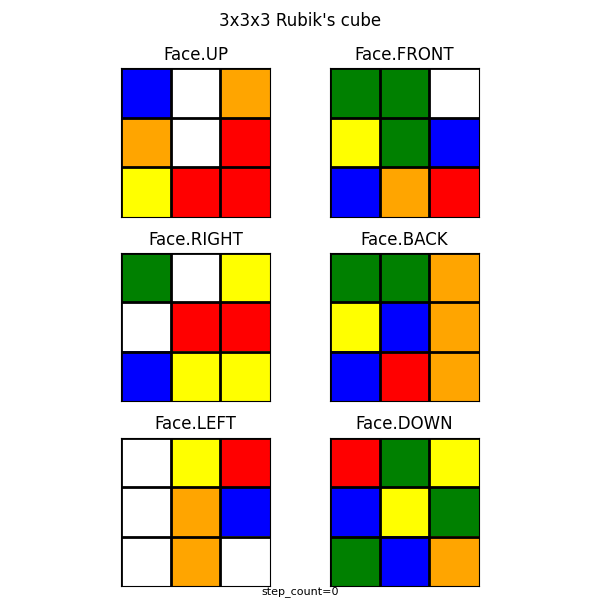
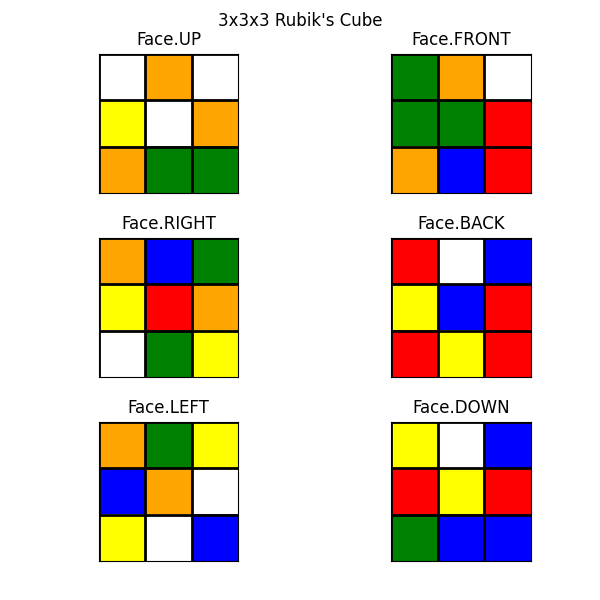
feat(animation): minesweeper and rubikscube (#342)

diff --git a/jumanji/environments/logic/rubiks_cube/env.py b/jumanji/environments/logic/rubiks_cube/env.py
@@ -12,11 +12,12 @@
 # See the License for the specific language governing permissions and
 # limitations under the License.
 
-from typing import List, Optional, Tuple
+from typing import List, Optional, Sequence, Tuple
 
 import chex
 import jax
 import matplotlib
+import matplotlib.animation
 import matplotlib.pyplot as plt
 from chex import PRNGKey
 from jax import lax
@@ -117,7 +118,7 @@ class RubiksCube(Environment[State]):
         self.num_actions = len(Face) * (cube_size // 2) * len(CubeMovementAmount)
         self.all_moves = generate_all_moves(cube_size=cube_size)
 
-        self.figure_name = f"{cube_size}x{cube_size}x{cube_size} Rubik's cube"
+        self.figure_name = f"{cube_size}x{cube_size}x{cube_size} Rubik's Cube"
         self.figure_size = (6.0, 6.0)
 
     @classmethod
@@ -312,7 +313,7 @@ class RubiksCube(Environment[State]):
 
         """
         self._clear_display()
-        fig, ax = self._get_fig_ax(caption=f"step_count={state.step_count}")
+        fig, ax = self._get_fig_ax()
         self._draw(ax, state)
         self._update_display(fig)
 
@@ -324,7 +325,7 @@ class RubiksCube(Environment[State]):
         """
         plt.close(self.figure_name)
 
-    def _get_fig_ax(self, caption: str) -> Tuple[plt.Figure, List[plt.Axes]]:
+    def _get_fig_ax(self) -> Tuple[plt.Figure, List[plt.Axes]]:
         exists = plt.fignum_exists(self.figure_name)
         if exists:
             fig = plt.figure(self.figure_name)
@@ -333,10 +334,7 @@ class RubiksCube(Environment[State]):
             fig, ax = plt.subplots(nrows=3, ncols=2, figsize=self.figure_size)
             fig.suptitle(self.figure_name)
             ax = ax.flatten()
-            plt.figtext(
-                0.5, 0.01, caption, wrap=True, horizontalalignment="center", fontsize=8
-            )
-            fig.set_tight_layout({"pad": True, "w_pad": 1.0, "h_pad": 1.0})
+            plt.tight_layout()
             plt.axis("off")
             if not plt.isinteractive():
                 fig.show()
@@ -385,3 +383,39 @@ class RubiksCube(Environment[State]):
             import IPython.display
 
             IPython.display.clear_output(True)
+
+    def animation(
+        self,
+        states: Sequence[State],
+        interval: int = 200,
+        blit: bool = False,
+    ) -> matplotlib.animation.FuncAnimation:
+        """Create an animation from a sequence of environment states.
+
+        Args:
+            states: sequence of environment states corresponding to consecutive timesteps.
+            interval: delay between frames in milliseconds, default to 200.
+            blit: whether to use blitting, which optimises the animation by only re-drawing
+                pieces of the plot that have changed. Defaults to False.
+
+        Returns:
+            Animation that can be saved as a GIF, MP4, or rendered with HTML.
+        """
+        fig, ax = plt.subplots(nrows=3, ncols=2, figsize=self.figure_size)
+        fig.suptitle(self.figure_name)
+        plt.tight_layout()
+        ax = ax.flatten()
+        plt.close(fig)
+
+        def animate(state_index: int) -> None:
+            state = states[state_index]
+            self._draw(ax, state)
+
+        self._animation = matplotlib.animation.FuncAnimation(
+            fig,
+            animate,
+            frames=len(states),
+            blit=blit,
+            interval=interval,
+        )
+        return self._animation

diff --git a/jumanji/environments/logic/minesweeper/env.py b/jumanji/environments/logic/minesweeper/env.py
@@ -12,9 +12,10 @@
 # See the License for the specific language governing permissions and
 # limitations under the License.
 
-from typing import List, Optional, Tuple
+from typing import List, Optional, Sequence, Tuple
 
 import chex
+import matplotlib.animation
 import matplotlib.pyplot as plt
 from chex import PRNGKey
 from jax import lax
@@ -125,7 +126,7 @@ class Minesweeper(Environment[State]):
         )
 
         self.cmap = colour_maping if colour_maping else COLOUR_MAPPING
-        self.figure_name = f"{board_height}x{board_width} minesweeper"
+        self.figure_name = f"{board_height}x{board_width} Minesweeper"
         self.figure_size = (6.0, 6.0)
 
     @classmethod
@@ -277,9 +278,7 @@ class Minesweeper(Environment[State]):
 
         """
         self._clear_display()
-        fig, ax = self._get_fig_ax(
-            caption=f"step_count={state.step_count}, num_mines={self.num_mines}"
-        )
+        fig, ax = self._get_fig_ax()
         self._draw(ax, state)
         self._update_display(fig)
 
@@ -291,17 +290,15 @@ class Minesweeper(Environment[State]):
         """
         plt.close(self.figure_name)
 
-    def _get_fig_ax(self, caption: str) -> Tuple[plt.Figure, plt.Axes]:
+    def _get_fig_ax(self) -> Tuple[plt.Figure, plt.Axes]:
         exists = plt.fignum_exists(self.figure_name)
         if exists:
             fig = plt.figure(self.figure_name)
             ax = fig.get_axes()[0]
         else:
             fig = plt.figure(self.figure_name, figsize=self.figure_size)
-            plt.figtext(
-                0.5, 0.01, caption, wrap=True, horizontalalignment="center", fontsize=8
-            )
-            fig.set_tight_layout({"pad": True, "w_pad": 1.0, "h_pad": 1.0})
+            plt.suptitle(self.figure_name)
+            plt.tight_layout()
             plt.axis("off")
             if not plt.isinteractive():
                 fig.show()
@@ -367,3 +364,37 @@ class Minesweeper(Environment[State]):
             import IPython.display
 
             IPython.display.clear_output(True)
+
+    def animation(
+        self,
+        states: Sequence[State],
+        interval: int = 200,
+        blit: bool = False,
+    ) -> matplotlib.animation.FuncAnimation:
+        """Create an animation from a sequence of environment states.
+
+        Args:
+            states: sequence of environment states corresponding to consecutive timesteps.
+            interval: delay between frames in milliseconds, default to 200.
+            blit: whether to use blitting, which optimises the animation by only re-drawing
+                pieces of the plot that have changed. Defaults to False.
+
+        Returns:
+            Animation that can be saved as a GIF, MP4, or rendered with HTML.
+        """
+        fig, ax = self._get_fig_ax()
+        plt.tight_layout()
+        plt.close(fig)
+
+        def animate(state_index: int) -> None:
+            state = states[state_index]
+            self._draw(ax, state)
+
+        self._animation = matplotlib.animation.FuncAnimation(
+            fig,
+            animate,
+            frames=len(states),
+            blit=blit,
+            interval=interval,
+        )
+        return self._animation

diff --git a/jumanji/environments/logic/rubiks_cube/env_test.py b/jumanji/environments/logic/rubiks_cube/env_test.py
@@ -13,8 +13,10 @@
 # limitations under the License.
 
 import chex
+import matplotlib.animation
 import matplotlib.pyplot as plt
 import pytest
+import pytest_mock
 from jax import jit
 from jax import numpy as jnp
 from jax import random, vmap
@@ -194,3 +196,12 @@ def test_rubiks_cube_env_done(step_limit: int) -> None:
             # Exit condition to make sure tests don't enter infinite loop, should not be hit
             raise Exception("Entered infinite loop")
     assert episode_length == step_limit
+
+
+def test_rubiks_cube_animation(
+    rubiks_cube_env: RubiksCube, mocker: pytest_mock.MockerFixture
+) -> None:
+    """Check that the animation method creates the animation correctly."""
+    states = mocker.MagicMock()
+    animation = rubiks_cube_env.animation(states)
+    assert isinstance(animation, matplotlib.animation.Animation)

diff --git a/jumanji/environments/logic/minesweeper/env_test.py b/jumanji/environments/logic/minesweeper/env_test.py
@@ -15,8 +15,10 @@
 from typing import List, Optional, Tuple
 
 import chex
+import matplotlib.animation
 import matplotlib.pyplot as plt
 import pytest
+import pytest_mock
 from jax import jit
 from jax import numpy as jnp
 from jax import random
@@ -204,3 +206,12 @@ def test_minesweeper_env_solved(minesweeper_env: Minesweeper) -> None:
     assert collected_step_types == [StepType.MID] * (expected_episode_length - 1) + [
         StepType.LAST
     ]
+
+
+def test_minesweeper_animation(
+    minesweeper_env: Minesweeper, mocker: pytest_mock.MockerFixture
+) -> None:
+    """Check that the animation method creates the animation correctly."""
+    states = mocker.MagicMock()
+    animation = minesweeper_env.animation(states)
+    assert isinstance(animation, matplotlib.animation.Animation)

diff --git a/docs/environments/rubiks_cube.md b/docs/environments/rubiks_cube.md
@@ -1,7 +1,7 @@
 # Rubik's Cube Environment
 
 <p align="center">
-        <img src="../env_img/rubiks_cube.png" height="200"/>
+        <img src="../env_anim/rubiks_cube.gif" height="200"/>
 </p>
 
 We provide here a Jax JIT-able implementation of the _Rubik's cube_. The environment contains an implementation of the classic 3x3x3 cube by default, and configurably other sizes. The goal of the agent is to match all stickers on each face to a single colour. On resetting the environment the cube will be randomly scrambled with a configurable number of turns (by default 100).

diff --git a/docs/environments/minesweeper.md b/docs/environments/minesweeper.md
@@ -1,7 +1,7 @@
 # Minesweeper Environment
 
 <p align="center">
-        <img src="../env_img/minesweeper.png" height="200"/>
+        <img src="../env_anim/minesweeper.gif" height="200"/>
 </p>
 
 We provide here a Jax JIT-able implementation of the game _Minesweeper_.
